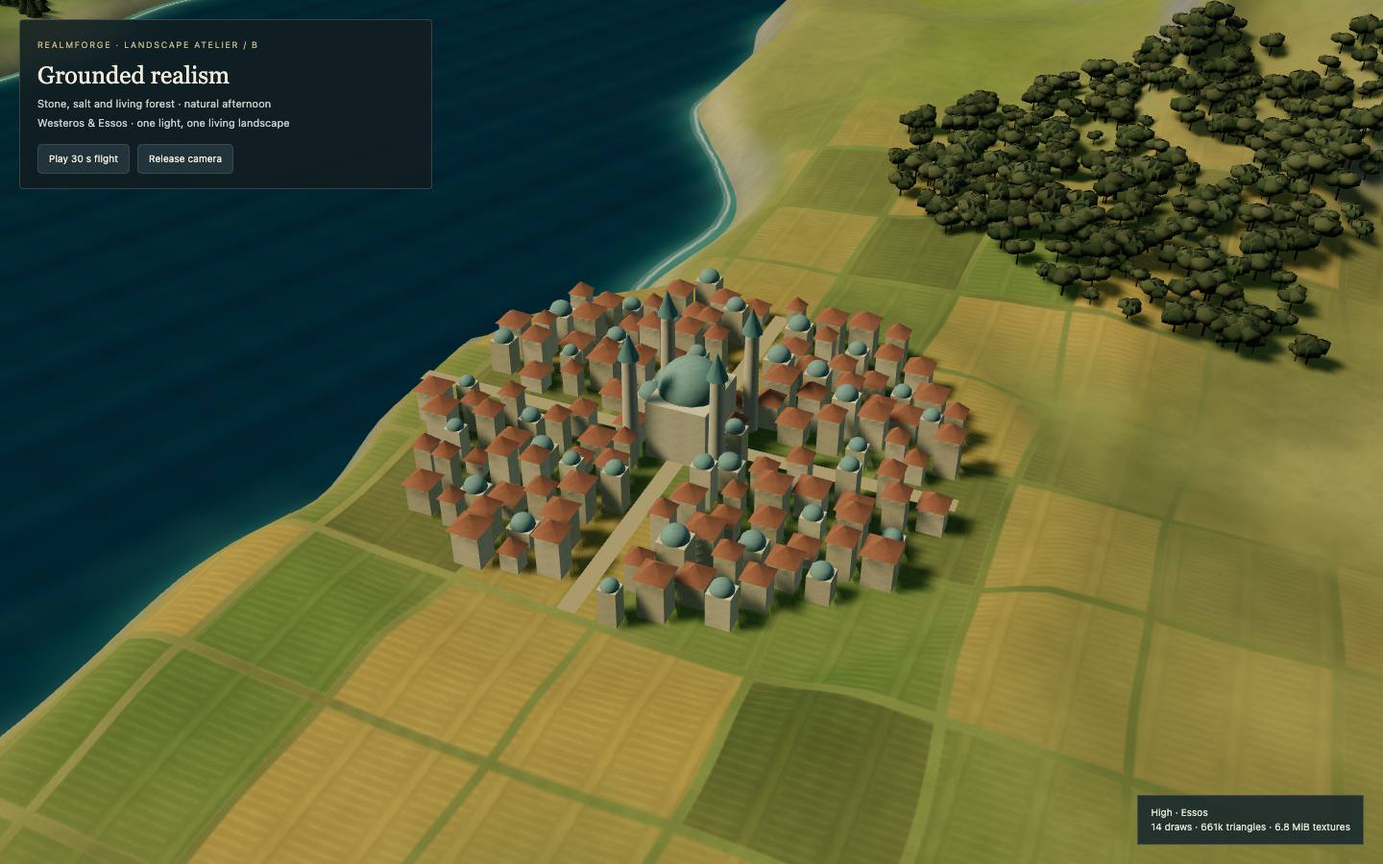
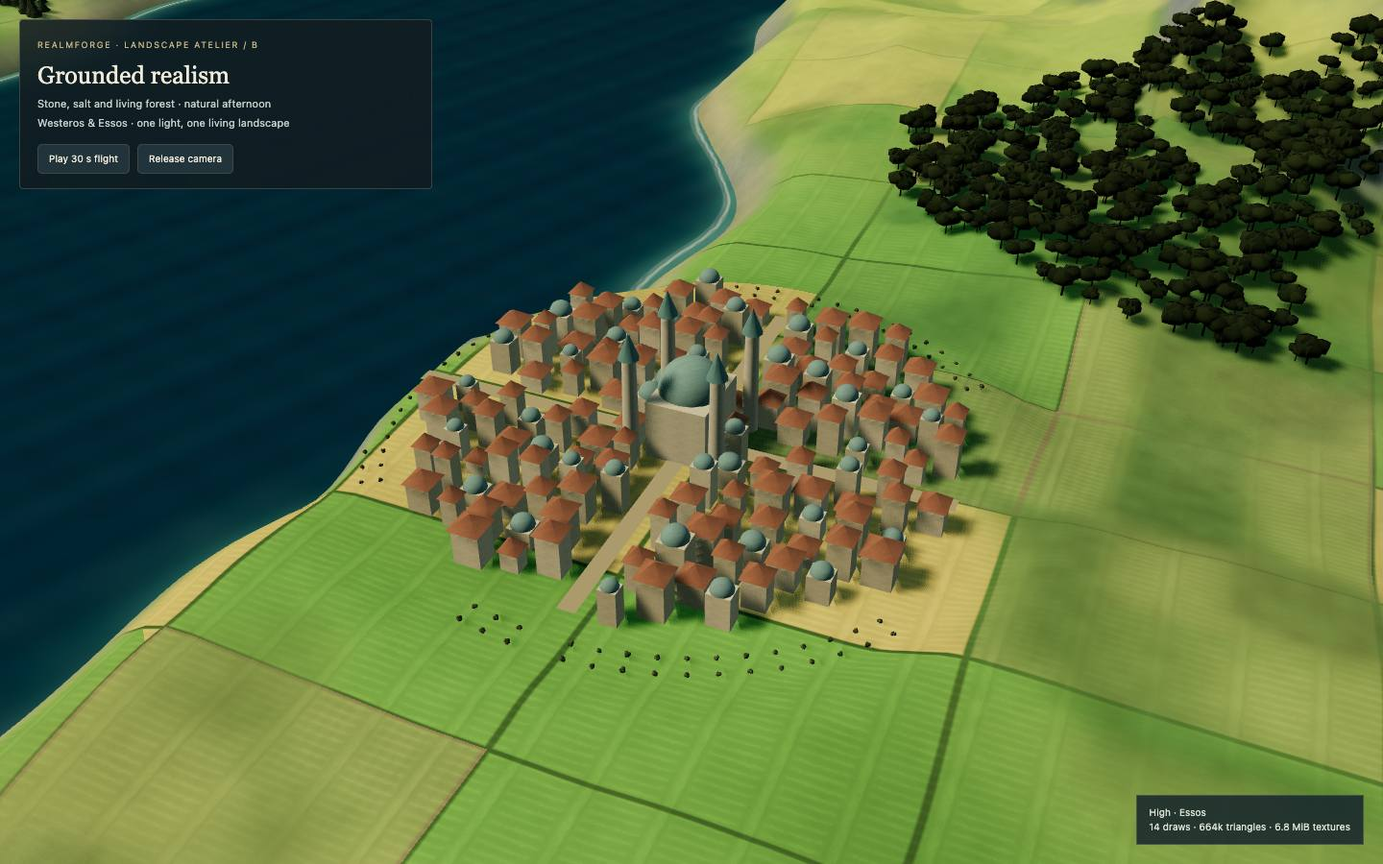
feat(lookdev): mirror the shipped look B round 4 tuning
Grassland vs desert in the east, fertile river basins, altitude frost with
two-scale moor clearings, a continuous field mosaic with hedgerows and lanes,
orchards and groves outside walls, and a dark eastern forest. B only; A, C and
the vendored armies, wildlings and heraldry stories are pixel-identical.

diff --git a/src/lookdev/surfaces.ts b/src/lookdev/surfaces.ts
@@ -10,13 +10,19 @@ export function landscapeGeometry(high:boolean):THREE.BufferGeometry {
 }
 export function terrainMaterial(d:Direction, surfaces:SurfaceArraySet):THREE.MeshStandardMaterial {
   const m=new THREE.MeshStandardMaterial({roughness:0.94});
+  const b=d.grounding;
+  const linear=(rgb:readonly [number,number,number]):THREE.Color=>new THREE.Color(...rgb);
   m.onBeforeCompile=s=>{
     Object.assign(s.uniforms,{
       ...(d.grounding ? {
-        ldMoor:{value:new THREE.Color(d.grounding.moor)},ldFrost:{value:new THREE.Color(d.grounding.frost)},
-        ldPasture:{value:new THREE.Color(d.grounding.pasture)},ldCereal:{value:new THREE.Color(d.grounding.cereal)},
-        ldVines:{value:new THREE.Color(d.grounding.vines)},ldValley:{value:new THREE.Color(d.grounding.valley)},
-        ldWoodland:{value:new THREE.Color(d.grounding.woodland)},ldParcelSize:{value:new THREE.Vector2(...d.grounding.parcelSize)},
+        ldMoor:{value:linear(d.grounding.moor)},ldClearing:{value:linear(d.grounding.clearing)},
+        ldFrost:{value:new THREE.Color(d.grounding.frost)},ldPasture:{value:linear(d.grounding.pasture)},
+        ldCereal:{value:linear(d.grounding.cereal)},ldOlives:{value:linear(d.grounding.olives)},
+        ldVines:{value:linear(d.grounding.vines)},ldHedge:{value:linear(d.grounding.hedge)},ldLane:{value:linear(d.grounding.lane)},
+        ldSteppeLow:{value:linear(d.grounding.steppe[0])},ldSteppeHigh:{value:linear(d.grounding.steppe[1])},
+        ldGrassland:{value:new THREE.Color(d.grounding.grassland)},ldBasin:{value:new THREE.Color(d.grounding.basin)},
+        ldValley:{value:new THREE.Color(d.grounding.valley)},ldWoodland:{value:new THREE.Color(d.grounding.woodland)},
+        ldParcelSize:{value:new THREE.Vector2(...d.grounding.parcelMetres).divideScalar(d.grounding.metresPerUnit)},
         ldLandUse:{value:new THREE.Vector4(d.grounding.parcelBlend,d.grounding.frostStrength,d.grounding.moorStrength,d.grounding.valleyStrength)},
       } : {}),
       ldAlbedo:{value:surfaces.albedo},ldNormal:{value:surfaces.normal},ldRough:{value:surfaces.roughness},
@@ -27,7 +33,7 @@ export function terrainMaterial(d:Direction, surfaces:SurfaceArraySet):THREE.Mes
     s.vertexShader=s.vertexShader.replace("#include <begin_vertex>","#include <begin_vertex>\nldP=position;ldN=normal;");
     s.fragmentShader=`varying vec3 ldP;varying vec3 ldN;uniform highp sampler2DArray ldAlbedo;uniform highp sampler2DArray ldNormal;uniform highp sampler2DArray ldRough;
     uniform vec3 ldGrass,ldNorth,ldDry,ldRock,ldSand,ldSnow;uniform float ldPhoto,ldMood;
-    ${d.grounding ? "uniform vec3 ldMoor,ldFrost,ldPasture,ldCereal,ldVines,ldValley,ldWoodland;uniform vec2 ldParcelSize;uniform vec4 ldLandUse;" : ""}
+    ${d.grounding ? "uniform vec3 ldMoor,ldClearing,ldFrost,ldPasture,ldCereal,ldOlives,ldVines,ldHedge,ldLane,ldSteppeLow,ldSteppeHigh,ldGrassland,ldBasin,ldValley,ldWoodland;uniform vec2 ldParcelSize;uniform vec4 ldLandUse;" : ""}
     ${geographyGLSL}\n`+s.fragmentShader;
     s.fragmentShader=s.fragmentShader.replace("#include <color_fragment>",`#include <color_fragment>
       vec2 p=ldP.xz;float slope=1.0-ldN.y;float n=ldNoise(p*.22),fine=ldNoise(p*2.8);
@@ -46,27 +52,49 @@ export function terrainMaterial(d:Direction, surfaces:SurfaceArraySet):THREE.Mes
       float vineyard=step(44.0,p.x)*step(p.x,59.0)*step(14.0,p.y)*step(p.y,23.0);
       grass=mix(grass,ldDry*.8,vineyard*.35);grass*=1.0-vineyard*(.5+.5*sin(p.x*14.0))*.15;
       ${d.grounding ? `
-      // Climate is public landscape data; east is equally fertile around the valley.
-      float valley=east*exp(-pow((p.x-(49.0+3.0*sin(p.y*.11)))/9.0,2.0));
-      float fertile=(1.0-north)*(1.0-smoothstep(.10,.32,slope))*(1.0-smoothstep(3.5,6.0,ldP.y));
-      grass=mix(grass,ldValley,valley*ldLandUse.w);
-      float moor=north*(1.0-rock)*(1.0-snow)*smoothstep(.37,.68,ldNoise(p*.19));
-      grass=mix(grass,ldMoor,moor*ldLandUse.z);
-      float frost=north*smoothstep(2.8,6.5,ldP.y)*(1.0-rock)*(1.0-smoothstep(.32,.64,n));
-      grass=mix(grass,ldFrost,frost*ldLandUse.y);
-      vec2 farmSpace=(p+vec2(n,ldNoise(p*.12+9.0))*.65)/ldParcelSize;
-      vec2 parcel=floor(farmSpace),edge=min(fract(farmSpace),1.0-fract(farmSpace));
-      float seed=ldHash(parcel),farmEdge=smoothstep(.015,max(.04,fwidth(farmSpace.x)*1.2),min(edge.x,edge.y));
-      float farm=fertile*farmEdge*smoothstep(1.0,2.0,ldP.y)*(1.0-rock)*(1.0-snow);
-      farm*=mix(.45,1.0,smoothstep(.22,.50,ldNoise(p*.10)));
-      float vines=step(.78,seed)*max(east,1.0-smoothstep(4.0,14.0,p.y));
-      vec3 crop=seed<.5?ldCereal:ldPasture;crop=mix(crop,ldVines,vines);
-      float vineRows=sin(p.x*14.0+p.y*.8);
-      crop*=1.0-vines*(.5+.5*vineRows)*.16*(1.0-smoothstep(.5,1.5,fwidth(p.x*14.0)));
-      field=max(field,farm);fieldColour=mix(fieldColour,crop,farm*ldLandUse.x);
+      // Physical R4 settings; climate kernels describe only this synthetic study.
+      float altitude=ldP.y*${b?.metresPerUnit.toFixed(1)};
+      vec2 desertP=(p-vec2(${b?.westernDesert.centre.join(',')}))/vec2(${b?.westernDesert.radius.join(',')});
+      float desert=(1.0-east)*(1.0-smoothstep(.45,1.0,dot(desertP,desertP)));
+      sand=max(sand,desert*(1.0-rock));
+      snow=smoothstep(mix(${b?.snowSouthMetres[0].toFixed(1)},${b?.snowNorthMetres[0].toFixed(1)},north),mix(${b?.snowSouthMetres[1].toFixed(1)},${b?.snowNorthMetres[1].toFixed(1)},north),altitude)*(1.0-smoothstep(.25,.65,slope));
+      vec2 valleyP=(p-vec2(${b?.riverBasin.centre.join(',')}))/vec2(${b?.riverBasin.radius.join(',')});
+      float valley=east*pow(max(0.0,1.0-dot(valleyP,valleyP)),2.0);
+      vec2 basinP=(p-vec2(${b?.cityBasin.centre.join(',')}))/vec2(${b?.cityBasin.radius.join(',')});
+      float basin=east*pow(max(0.0,1.0-dot(basinP,basinP)),2.0);
+      vec2 forestP=(p-vec2(${b?.easternForest.centre.join(',')}))/vec2(${b?.easternForest.radius.join(',')});
+      float forest=east*(1.0-smoothstep(.55,1.0,dot(forestP,forestP)));
+      grass=mix(ldGrass,ldNorth,north*.86);
+      grass=mix(grass,ldDry,(1.0-east)*smoothstep(14.0,24.0,p.y)*.65);
+      grass=mix(grass,ldGrassland,east);
+      vec3 steppe=mix(ldSteppeLow,ldSteppeHigh,smoothstep(.25,.75,ldNoise(p*vec2(.17,.63))));
+      grass=mix(grass,steppe,east*(1.0-valley)*.86);
+      grass=mix(grass,ldBasin,basin);grass=mix(grass,ldValley,valley*ldLandUse.w);
       float woodland=smoothstep(.48,.73,ldNoise(p*.14))*(1.0-rock)*(1.0-snow);
       woodland*=mix(.12,1.0,smoothstep(.30,.67,ldNoise(p*.35)));
-      grass=mix(grass,ldWoodland*mix(.85,1.25,ldNoise(p*2.2)),woodland*mix(.38,.17,north));
+      woodland=mix(woodland,1.0,forest);
+      float moor=north*(1.0-smoothstep(.08,.24,slope))*(1.0-snow);
+      grass=mix(grass,ldMoor*(.82+.30*n),moor*smoothstep(.30,.63,ldNoise(p*.22))*ldLandUse.z);
+      float frost=north*smoothstep(${b?.frostMetres[0].toFixed(1)},${b?.frostMetres[1].toFixed(1)},altitude)*(1.0-rock)*smoothstep(.40,.64,ldNoise(p*.19));
+      grass=mix(grass,ldFrost,frost*mix(ldLandUse.y,1.0,${b?.winter.toFixed(1)}));
+      grass=mix(grass,ldWoodland*mix(.60,1.0,ldNoise(p*2.2)),woodland*mix(.73,.34,north));
+      grass=mix(grass,ldClearing*(.85+.25*n),moor*(1.0-woodland)*smoothstep(.34,.59,ldNoise(p*.55))*${b?.clearingStrength.toFixed(2)});
+      vec2 farmSpace=(p+vec2(n,ldNoise(p*.12+9.0))*${b?.parcelWarp.toFixed(2)})/ldParcelSize;
+      vec2 parcel=floor(farmSpace),edge=min(fract(farmSpace),1.0-fract(farmSpace));
+      float seed=ldHash(parcel),parcelPixel=max(fwidth(farmSpace.x),fwidth(farmSpace.y));
+      float farmEdge=smoothstep(${b?.parcelEdge[0]},max(${b?.parcelEdge[1]},parcelPixel*${b?.parcelEdge[2]}),min(edge.x,edge.y));
+      float fertile=(1.0-north)*(1.0-smoothstep(.10,.32,slope))*(1.0-smoothstep(${b?.farmMetres[0].toFixed(1)},${b?.farmMetres[1].toFixed(1)},altitude));
+      float farm=fertile*(1.0-sand)*(1.0-woodland*.8)*(1.0-rock)*(1.0-snow)*smoothstep(0.0,.24,ldShore(p))*smoothstep(.4,1.2,ldP.y);
+      farm*=mix(.82,1.0,smoothstep(.22,.50,ldNoise(p*.10)));
+      float vineClimate=max(basin,(1.0-east)*(1.0-smoothstep(4.0,14.0,p.y)));
+      float vines=step(.76,seed)*vineClimate;
+      vec3 crop=seed<mix(${b?.cerealFraction[0]},${b?.cerealFraction[1]},vineClimate)?ldCereal:seed<.78?ldPasture:ldOlives;
+      crop=mix(crop,ldVines,vines*.8);
+      float vinePhase=p.x*${b ? (b.metresPerUnit/b.vineRowMetres).toFixed(3) : "25.0"}+p.y*.8;
+      crop*=1.0-vines*(.5+.5*sin(vinePhase))*.16*(1.0-smoothstep(.5,1.5,fwidth(vinePhase)));
+      // Borders belong to the same warped parcels, with occasional earth lanes.
+      crop=mix(mix(ldHedge,ldLane,step(.88,seed)),crop,farmEdge);
+      field=farm*ldLandUse.x*(1.0-${b?.winter.toFixed(1)}*${b?.winterFarmLoss});fieldColour=crop*(.90+n*.22);rows=0.0;
       ` : ""}
       float layer=rock>.45?5.0:sand>.45?4.0:field>.45?2.0:n>.55?1.0:0.0;
       vec3 planes=pow(abs(ldN),vec3(6.0));planes/=max(dot(planes,vec3(1)),.001);
@@ -75,7 +103,7 @@ export function terrainMaterial(d:Direction, surfaces:SurfaceArraySet):THREE.Mes
       tex=mix(tex,texture(ldAlbedo,vec3(p*.75,5.0)).rgb,rock);
       if(rock>.99)tex=texture(ldAlbedo,vec3(ldP.yz*.65,5.0)).rgb*planes.x+texture(ldAlbedo,vec3(ldP.xy*.65,5.0)).rgb*planes.z+tex*planes.y;
       float luminance=dot(tex,vec3(.2126,.7152,.0722));
-      vec3 base=mix(grass,fieldColour+rows,field*.78);base=mix(base,ldRock,rock);base=mix(base,ldSand*mix(.70,1.0,smoothstep(.0,.65,ldP.y)),sand);base=mix(base,ldSnow,snow);
+      vec3 base=mix(grass,fieldColour+rows,field*${d.grounding ? "1.0" : ".78"});base=mix(base,ldRock,rock);base=mix(base,ldSand*mix(.70,1.0,smoothstep(.0,.65,ldP.y)),sand);base=mix(base,ldSnow,snow);
       base*=.85+n*.27+(fine-.5)*.10;
       base*=1.0-ldMood*smoothstep(.4,.72,ldNoise(p*.055))*.16;
       base*=mix(1.0,clamp(.68+luminance*1.5,.67,1.35),ldPhoto*(1.0-snow));
@@ -93,7 +121,7 @@ export function terrainMaterial(d:Direction, surfaces:SurfaceArraySet):THREE.Mes
       normal=normalize(normal+vec3(detail.x,detail.y,0.0)*ldPhoto*.17*(1.0-snow));
     `);
   };
-  m.customProgramCacheKey=()=>d.grounding?"lookdev-terrain-B-r3":"lookdev-terrain-v1";return m;
+  m.customProgramCacheKey=()=>d.grounding?"lookdev-terrain-B-r4":"lookdev-terrain-v1";return m;
 }
 export function seaMaterial(d:Direction):{material:THREE.MeshStandardMaterial;time:{value:number}} {
   const time={value:0};const m=new THREE.MeshStandardMaterial({color:d.sea,roughness:d.grounding ? .42 : .28,metalness:d.grounding ? .04 : .12});

diff --git a/src/lookdev/vegetation.ts b/src/lookdev/vegetation.ts
@@ -4,7 +4,7 @@ import { paintGeometry } from "../core/sculpt";
 import { floraCanopyTextures, floraGroupGeometry } from "../nature/FloraGeometry";
 import { type Direction, heightAt, hash, noise, riverX } from "./directions";
 
-type Tree = {x:number;z:number;h:number;pine:boolean;scale:number};
+type Tree = {x:number;z:number;h:number;pine:boolean;scale:number;planted?:boolean};
 function treeGeometry(pine:boolean,detail:boolean,cards=false):THREE.BufferGeometry {
   const pieces:THREE.BufferGeometry[]=[];
   const add=(g:THREE.BufferGeometry,c:string):void=>{const p=g.index?g.toNonIndexed():g;if(p!==g)g.dispose();p.setAttribute("ldLeaf",new THREE.Float32BufferAttribute(new Float32Array(p.getAttribute("position").count).fill(c==="#625441"?0:1),1));pieces.push(paintGeometry(p,c));};
@@ -39,6 +39,36 @@ export function vegetation(d:Direction,high:boolean):{object:THREE.Group;update:
     if(noise(x*.38,z*.38)<.24)continue;
     trees.push({x,z,h,pine:z< -8&&x<26,scale:.6+hash(i,9)*.65});
   }
+  if(d.grounding){
+    const b=d.grounding,unit=b.metresPerUnit;
+    // Reassign accepted broadleaf candidates, rather than expanding the tree pool.
+    // The synthetic settlement footprints match the existing placement exclusions.
+    const sites=[[-12,7,5],[-8,16,6.4],[47,5,6.4]];
+    const broadleaf=trees.filter(t=>!t.pine);let cursor=0;
+    for(const [cx,cz,radius] of sites){
+      let accepted=0;
+      for(const offset of b.orchardMetres.rows){
+        const r=radius+offset/unit,steps=Math.min(b.orchardMetres.candidates/b.orchardMetres.rows.length,Math.floor(2*Math.PI*r/(b.orchardMetres.spacing/unit)));
+        for(let i=0;i<steps&&accepted<b.orchardMetres.candidates;i++){
+          const a=i/steps*Math.PI*2,x=cx+Math.cos(a)*r,z=cz+Math.sin(a)*r;
+          // Open orchard blocks and cross-axis gate/road approaches.
+          if(Math.floor(i/8)%3===0||Math.abs(x-cx)<b.orchardMetres.gate/unit/2||Math.abs(z-cz)<b.orchardMetres.gate/unit/2)continue;
+          const h=heightAt(x,z),delta=.12;
+          const slope=Math.hypot(heightAt(x+delta,z)-heightAt(x-delta,z),heightAt(x,z+delta)-heightAt(x,z-delta))/(2*delta);
+          if(h<.9||h>6.7||slope>.32||Math.abs(x-riverX(z))<1.35)continue;
+          if(sites.some(([sx,sz,sr])=>Math.hypot(x-sx,z-sz)<sr))continue;
+          const tree=broadleaf[cursor++];if(!tree)break;
+          Object.assign(tree,{x,z,h,scale:b.orchardMetres.height/unit*(.88+hash(i,cx)*.24),planted:true});accepted++;
+        }
+      }
+    }
+  }
+  const forestTint=(t:Tree):THREE.Color|undefined=>{
+    if(!d.grounding||t.planted)return;
+    const b=d.grounding,f=b.easternForest;
+    if(((t.x-f.centre[0])/f.radius[0])**2+((t.z-f.centre[1])/f.radius[1])**2>=1)return;
+    return new THREE.Color(b.forestCrown).lerp(new THREE.Color("#a5bf7a"),b.forestCrownLight);
+  };
   const disposers:(()=>void)[]=[];
   const leafCanvas=document.createElement("canvas");leafCanvas.width=leafCanvas.height=128;
   const c=leafCanvas.getContext("2d")!;
@@ -85,7 +115,7 @@ export function vegetation(d:Direction,high:boolean):{object:THREE.Group;update:
     if(canopy){let count=0;for(const t of canopy.trees){
       if(Math.hypot(t.x-camera.position.x,t.h-camera.position.y,t.z-camera.position.z)<=60)continue;
       transform.position.set(t.x,t.h+t.scale*.52,t.z);transform.rotation.set(0,hash(t.x,t.z)*6.28,0);transform.scale.set(t.scale*.43*(d.grounding?.crownWidth??1),t.scale*.3,t.scale*.43*(d.grounding?.crownWidth??1));transform.updateMatrix();canopy.mesh.setMatrixAt(count,transform.matrix);
-      if(d.grounding){const shade=THREE.MathUtils.lerp(...d.grounding.crownShade,noise(t.x*.8,t.z*.8));canopy.mesh.setColorAt(count,new THREE.Color(shade,shade,shade*.95));}
+      if(d.grounding){const shade=THREE.MathUtils.lerp(...d.grounding.crownShade,noise(t.x*.8,t.z*.8));canopy.mesh.setColorAt(count,(forestTint(t)??new THREE.Color(1,1,.95)).multiplyScalar(shade));}
       count++;
     }canopy.mesh.count=count;canopy.mesh.instanceMatrix.needsUpdate=true;if(canopy.mesh.instanceColor)canopy.mesh.instanceColor.needsUpdate=true;}
     for(const {mesh,data,detail} of batches){
@@ -93,8 +123,8 @@ export function vegetation(d:Direction,high:boolean):{object:THREE.Group;update:
         const distance=Math.hypot(t.x-camera.position.x,t.h-camera.position.y,t.z-camera.position.z);
         const near=high&&distance<18;if(near!==detail||(!t.pine&&distance>60))return;
         transform.position.set(t.x,t.h-.03,t.z);transform.rotation.set(0,hash(i,8)*Math.PI*2,0);
-        transform.scale.set(t.scale*(d.grounding?.crownWidth??1),t.scale*(t.x>26?.72:1),t.scale*(d.grounding?.crownWidth??1));transform.updateMatrix();mesh.setMatrixAt(packed,transform.matrix);
-        const tint=d.grounding?THREE.MathUtils.lerp(...d.grounding.crownShade,noise(t.x*.8,t.z*.8)):.80+hash(i,11)*.32;mesh.setColorAt(packed++,new THREE.Color(tint,tint,tint*.95));
+        transform.scale.set(t.scale*(d.grounding?.crownWidth??1),t.scale*(t.x>26&&!t.planted?.72:1),t.scale*(d.grounding?.crownWidth??1));transform.updateMatrix();mesh.setMatrixAt(packed,transform.matrix);
+        const tint=d.grounding?THREE.MathUtils.lerp(...d.grounding.crownShade,noise(t.x*.8,t.z*.8)):.80+hash(i,11)*.32;mesh.setColorAt(packed++,d.grounding?(forestTint(t)??new THREE.Color(1,1,.95)).multiplyScalar(tint):new THREE.Color(tint,tint,tint*.95));
       });mesh.count=packed;mesh.instanceMatrix.needsUpdate=true;mesh.instanceColor!.needsUpdate=true;
     }
   };

diff --git a/src/lookdev/directions.ts b/src/lookdev/directions.ts
@@ -3,15 +3,33 @@ import * as THREE from "three";
 export type Look = "A" | "B" | "C";
 export type Quality = "High" | "Balanced";
 export type Pose = "World x20" | "Regional" | "Close" | "Essos" | "Free flight";
-/** Chosen B calibration, carried back from three regional game review rounds.
- * Coordinates describe this synthetic study, never production geography. */
+/** Game-default B calibration after the fourth regional review.
+ * Linear RGB triples are already linear; hex strings are sRGB.
+ * All distances are metres, adapted to this 50 m/unit synthetic study. */
 export const groundedRealism = {
-  moor: "#879933", frost: "#bdc9bb", pasture: "#618537", cereal: "#c49e4d",
-  vines: "#4b642d", valley: "#748b43", woodland: "#344c24",
-  parcelSize: [3.2, 3.8] as const, parcelBlend: 0.88, frostStrength: 0.22,
-  moorStrength: 0.66, valleyStrength: 0.72, crownWidth: 1.15,
-  crownShade: [0.70, 1.20] as const, seaSpecular: 0.30, foamStrength: 0.55,
-  hazeLimit: 0.00168,
+  metresPerUnit: 50,
+  moor: [0.46, 0.60, 0.12] as const, clearing: [0.54, 0.67, 0.12] as const,
+  frost: "#bdc9bb", pasture: [0.19, 0.46, 0.075] as const,
+  cereal: [0.74, 0.57, 0.16] as const, olives: [0.35, 0.43, 0.12] as const,
+  vines: [0.20, 0.31, 0.095] as const, hedge: [0.075, 0.16, 0.035] as const,
+  lane: [0.32, 0.25, 0.13] as const,
+  steppe: [[0.20, 0.37, 0.075], [0.49, 0.53, 0.15]] as const,
+  grassland: "#90b35c", basin: "#8fba58", valley: "#5fac50", woodland: "#527c43",
+  parcelMetres: [340, 245] as const, parcelWarp: 0.30, parcelBlend: 0.97,
+  parcelEdge: [0.005, 0.016, 0.75] as const, cerealFraction: [0.26, 0.52] as const,
+  vineRowMetres: 2, winter: 0, winterFarmLoss: 0.35,
+  frostMetres: [150, 650] as const, frostStrength: 0.30,
+  snowNorthMetres: [780, 1080] as const, snowSouthMetres: [1250, 1500] as const,
+  farmMetres: [600, 1000] as const, moorStrength: 0.80, clearingStrength: 0.95,
+  valleyStrength: 0.85, crownWidth: 1.15, crownShade: [0.70, 1.20] as const,
+  forestCrown: "#748f61", forestCrownLight: 0.12,
+  orchardMetres: { rows: [20, 40] as const, spacing: 18, gate: 36, height: 7, candidates: 160 },
+  // Synthetic counterparts of a river catchment, a city basin and eastern forest.
+  westernDesert: { centre: [-34, 17] as const, radius: [10, 12] as const },
+  riverBasin: { centre: [49, -3] as const, radius: [9, 24] as const },
+  cityBasin: { centre: [47, 5] as const, radius: [14, 15.6] as const },
+  easternForest: { centre: [57, -12] as const, radius: [10, 8] as const },
+  seaSpecular: 0.30, foamStrength: 0.55, hazeLimit: 0.00168,
 };
 export interface Direction {
   grounding?: typeof groundedRealism;
@@ -22,7 +40,7 @@ export interface Direction {
 }
 export const directions: Record<Look, Direction> = {
   A: { name:"Painterly realism", subtitle:"A living atlas · luminous valleys, quiet seas", grass:"#738a43",north:"#587563",dry:"#b7a563",rock:"#93978d",sand:"#d5c28f",snow:"#e4ebdf",sea:"#194b5d",shallow:"#65a89d",sky:"#a3c2c6",horizon:"#d9d9bf",sun:"#fff0cf",sunPower:2.5,ambient:1.75,exposure:1.05,fog:0.0025,photo:0.10,foliage:"#436038" },
-  B: { grounding:groundedRealism, name:"Grounded realism", subtitle:"Stone, salt and living forest · natural afternoon",grass:"#748b46",north:"#67774b",dry:"#af9c61",rock:"#858786",sand:"#bdb38e",snow:"#d6dedb",sea:"#103c50",shallow:"#558f87",sky:"#92b1bd",horizon:"#d7d8ce",sun:"#ffedce",sunPower:3.1,ambient:1.2,exposure:1.0,fog:groundedRealism.hazeLimit,photo:0.92,foliage:"#344b34" },
+  B: { grounding:groundedRealism, name:"Grounded realism", subtitle:"Stone, salt and living forest · natural afternoon",grass:"#8abf58",north:"#819d80",dry:"#af9c61",rock:"#7f898c",sand:"#bdb38e",snow:"#d6dedb",sea:"#103c50",shallow:"#558f87",sky:"#92b1bd",horizon:"#d7d8ce",sun:"#ffedce",sunPower:3.1,ambient:1.2,exposure:1.0,fog:groundedRealism.hazeLimit,photo:0.92,foliage:"#344b34" },
   C: { name:"Series mood", subtitle:"The cold North, the golden South · weather over the strait",grass:"#73734a",north:"#3d5754",dry:"#b59b56",rock:"#697675",sand:"#b9ac82",snow:"#d6e0dc",sea:"#183c46",shallow:"#527b77",sky:"#607984",horizon:"#bdc3bc",sun:"#ffd49b",sunPower:2.8,ambient:1.0,exposure:0.94,fog:0.0055,photo:0.65,foliage:"#344b40" },
 };
 export const hash = (x: number, z: number): number => {

diff --git a/docs/lookdev.md b/docs/lookdev.md
@@ -8,9 +8,8 @@ flight (drag, WASD, Q/E); wheel reduces travel speed for close inspection.
 
 ## Direction and recommendation
 
-**B · Grounded realism is the chosen direction.** Its material, canopy and coast
-strategy has been ported to the game's World ×20 view and refined over three
-regional review rounds. The library now mirrors those refinements in B only;
+**B · Grounded realism shipped as the game default** in its fourth regional
+review round. Its material, canopy and coast strategy is mirrored here in B only;
 A and C remain available with their original output.
 
 ![Chosen B: regional terrain and forest](images/lookdev-b-regional.jpg)
@@ -29,6 +28,7 @@ new external assets are used.
 | 1 · Material and light port | Natural PBR ground/value range, regional vegetation, near cutout leaves, saline depth/shallows/foam and restrained atmosphere. |
 | 2 · Fertile regions | Green pasture/cereal/vineyard patchwork, grouped broadleaf canopies, fertile eastern grassland/river valley and olive-like low broadleaf silhouettes; less sea glare. |
 | 3 · Regional separation | Yellow-green northern moor between rock and light frost, stronger agricultural parcel contrast, sunlit crowns and shaded gaps, lower haze. |
+| 4 · Shipped default | Eastern steppe stays grassland; fertile river/city basins, altitude-driven frost and two-scale luminous moor, continuous field boundaries with hedgerows/lanes, exterior orchard rows and a continuous dark eastern forest. |
 
 The game remains authoritative for production geography, climate fields and
 placement. Library climate masks use synthetic coordinates; these are an art
@@ -38,28 +38,43 @@ new botanically exact olive model.
 
 ### B parameters are data
 
-`groundedRealism` in `src/lookdev/directions.ts` supplies B's palette, parcel
-size/blend, frost/moor/valley weights, crown width/value range, sea specular and
-foam limits, and haze cap. Only B receives this optional `Direction.grounding`
-record; A/C run their original material and placement branches. No global nature
-or material implementation changes are required.
+`groundedRealism` in `src/lookdev/directions.ts` supplies B's round-4 parameters.
+Only B receives the optional `Direction.grounding` record. Hex colors are sRGB;
+RGB triples below are **linear**, never converted from sRGB again. Physical
+settings use metres, converted at the gallery's **50 m per scene unit**.
 
-| Parameter | Value | Purpose |
+| Parameter | Round-4 value | Use in this study |
 | --- | --- | --- |
-| Moor / frost | `#879933` / `#bdc9bb` | Separate open northern ground from stone and alpine snow |
-| Pasture / cereal / vines | `#618537` / `#c49e4d` / `#4b642d` | Readable cultivated parcels |
-| Valley / woodland | `#748b43` / `#344c24` | Fertile eastern catchment and shaded forest floor |
-| Parcel size / blend | `3.2 × 3.8` units / `0.88` | Seeded patchwork; derivative-filtered vineyard rows |
-| Moor / frost / valley weights | `0.66` / `0.22` / `0.72` | Regional mix limits, independent of ownership |
-| Crown width / shade range | `1.15` / `0.70–1.20` | Grouped crowns with lit tops and shaded gaps; same instances |
-| Sea specular / foam multiplier | `0.30` / `0.55` | Limit glare while retaining depth, shallows and surf |
-| Fog density cap | `0.00168` | Preserve regional landscape visibility |
+| Northern ground / rock | `#819d80` / `#7f898c` | Grey rock remains separate from luminous open ground |
+| Broad moor / small clearings (linear) | `(0.46,0.60,0.12)` / `(0.54,0.67,0.12)` | Noise scales `0.22` / `0.55`, weights `0.80` / `0.95`; slope fades at `0.08–0.24` |
+| Low frost / alpine snow | `150–650 m`; summer `0.30`, winter `1.0`; north `780–1080 m`, south `1250–1500 m` | Noise-fragmented frost; independent alpine layer. Synthetic peaks do not reach every game snow band |
+| Eastern grassland / city basin / river valley | `#90b35c` / `#8fba58` / `#5fac50` | Dry climate stays grass, while actual coasts and a western desert kernel keep sand |
+| Steppe bands (linear) | `(0.20,0.37,0.075)` → `(0.49,0.53,0.15)` | Anisotropic noise `0.17 × 0.63` |
+| Cereal / pasture / olives / vines (linear) | `(0.74,0.57,0.16)` / `(0.19,0.46,0.075)` / `(0.35,0.43,0.12)` / `(0.20,0.31,0.095)` | Cereal share `0.26–0.52`, derivative-filtered 2 m vine rows |
+| Parcels / warp / blend | `340 × 245 m` / `0.30` / `0.97` | Continuous agriculture; winter reduces gain by `35%` |
+| Parcel border filter | `0.005–max(0.016,0.75 × pixel footprint)` | Same parcel lattice supplies fields, hedges and earth lanes |
+| Hedge / lane (linear) | `(0.075,0.16,0.035)` / `(0.32,0.25,0.13)` | Connected boundaries, with lane choice above parcel seed `0.88` |
+| Agriculture exclusions | Slope `0.10–0.32`, altitude `600–1000 m` | Also excludes snow, coast, rock and dense woodland |
+| Exterior orchard rows | `20 / 40 m` beyond settlement footprint, spacing ≥`18 m`, gates `36 m`, ≤`160` candidates/site | Reassign existing broadleaf trees around the castle, town and harbor; low 7 m recipe, open pasture blocks, slope/river/neighbor exclusions |
+| Dark eastern forest | Floor `#527c43`, crowns `#748f61`, light tint `12%` | Continuous floor below existing eastern tree cluster; same packed LODs |
+| Crown width / shade | `1.15` / `0.70–1.20` | Existing grouped crowns and shaded gaps |
+| Sea specular / foam / haze | `0.30` / `0.55` / `0.00168` | Unchanged from the library round-1 sync; no R4 water/light changes |
 
-No geometry, texture download, draw pass, instance count or dependency is added.
-B adds a canopy instance-color buffer bounded by 54,000 bytes in High and
-33,600 bytes in Balanced (actual accepted broadleaf counts are lower).
-The shader adds procedural climate/land-use samples; measure its GPU cost on
-consumer hardware rather than inferring it from the unchanged geometry budget.
+The western desert, river catchment, city basin and eastern forest have explicit synthetic
+centres/radii in the same data record. The game uses its public atlas and urban
+contours instead: do not copy atlas pixels or screen coordinates into this
+scene. Its river and city kernels use a smooth quadratic falloff. The library
+has no marsh atlas, live season input, ownership or gameplay reservation slots;
+`winter` is an art parameter, defaulting to summer. Existing synthetic river,
+coast, slope and settlement exclusions stand in for those host contracts.
+
+No geometry, texture download, draw pass, tree pool or dependency is added.
+Orchards reuse accepted broadleaf candidates and silhouettes, not a new botanical
+olive or fruit-tree model. They sit beyond the existing synthetic settlement
+footprints; this does not add or change walls, roads, city geometry or geography.
+The existing B canopy instance-color buffer remains bounded by 54,000 bytes High
+and 33,600 bytes Balanced. Procedural shader work must still be measured on
+consumer hardware; unchanged triangle counts are not a GPU timing guarantee.
 
 ## Boundaries and lifecycle
 
@@ -100,9 +115,9 @@ Portrait expands distance to retain the subject. Regional uses the saved
 regional direction `(0.25, 0.75, 0.66)` at a larger landscape-study distance;
 Close deliberately frames a complete castle rather than a single soldier.
 
-The contact sheets include the supplied production screenshots, with their UI,
-and the synthetic sampler. They are art-direction comparisons, not pixel-matched
-before/after claims, and the phone viewport is desktop browser emulation.
+Library contact sheets compare synthetic views only; private production
+references stay outside the public repository. The phone viewport is desktop
+browser emulation, not physical-device validation.
 
 ## Costs and quality controls
 

diff --git a/CHANGELOG.md b/CHANGELOG.md
@@ -11,6 +11,7 @@ All notable changes are documented here, following Keep a Changelog.
 
 ### Changed
 
+- Sync the game-default B direction with round-4 data: grassland instead of eastern dry-mask sand, fertile river/city basins, altitude-driven frost and two-scale luminous moor, continuous agricultural parcels with hedgerows/lanes, exterior orchard rows and a dark eastern forest. Refresh both B documentation images.
 - Refine only B with northern moor/rock/frost separation, fertile eastern valley and grassland, pasture/cereal/vineyard parcels, grouped canopy light variation, restrained sea highlights/foam and lower haze.
 - Preserve A/C and the armies, wildlings and heraldry story output; reuse existing geometry, texture assets and dependencies.
 
